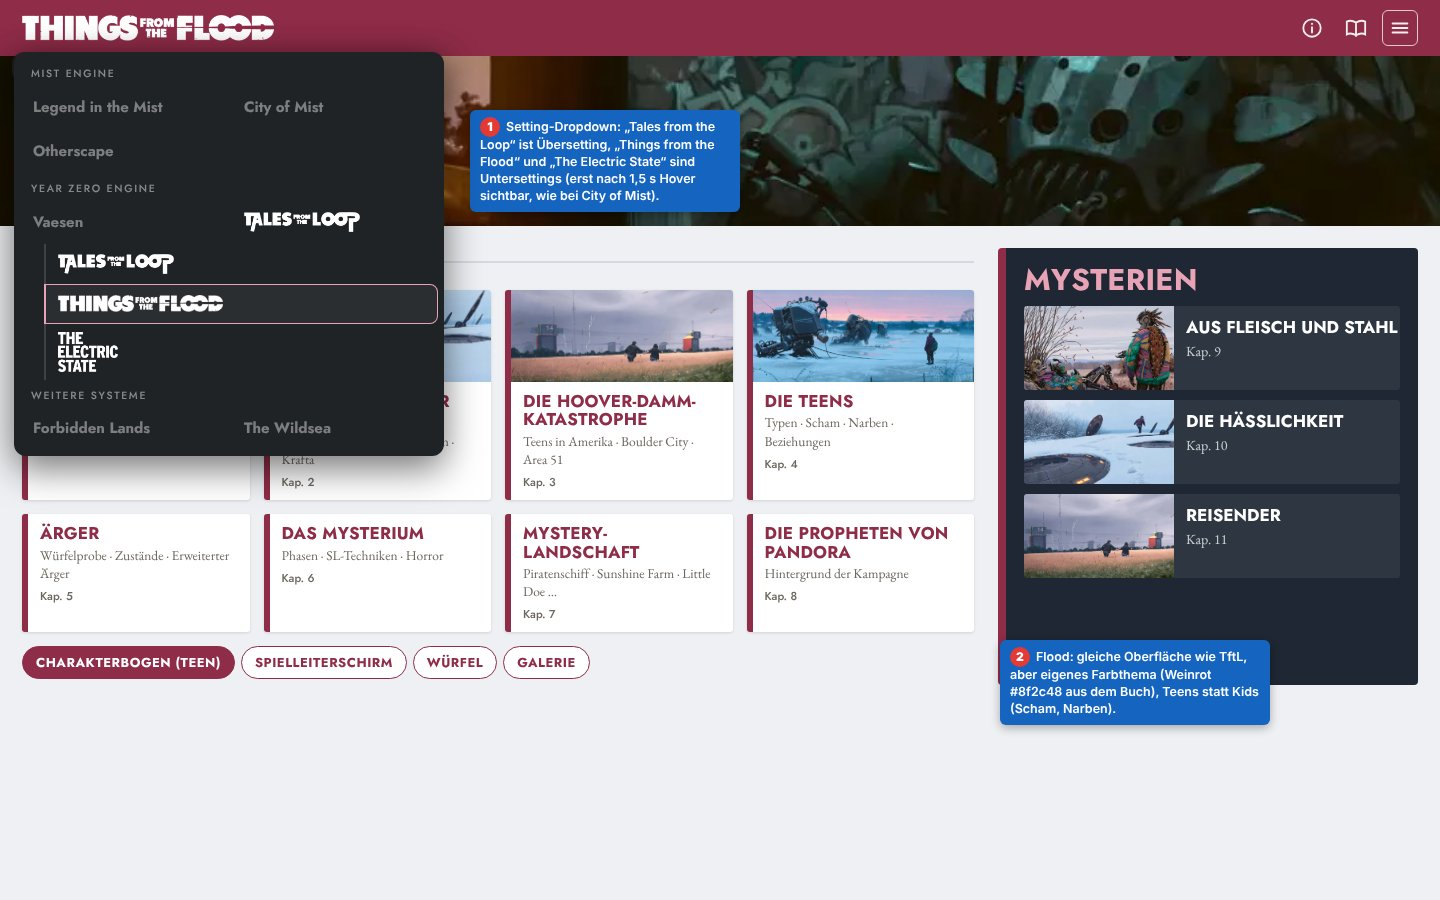
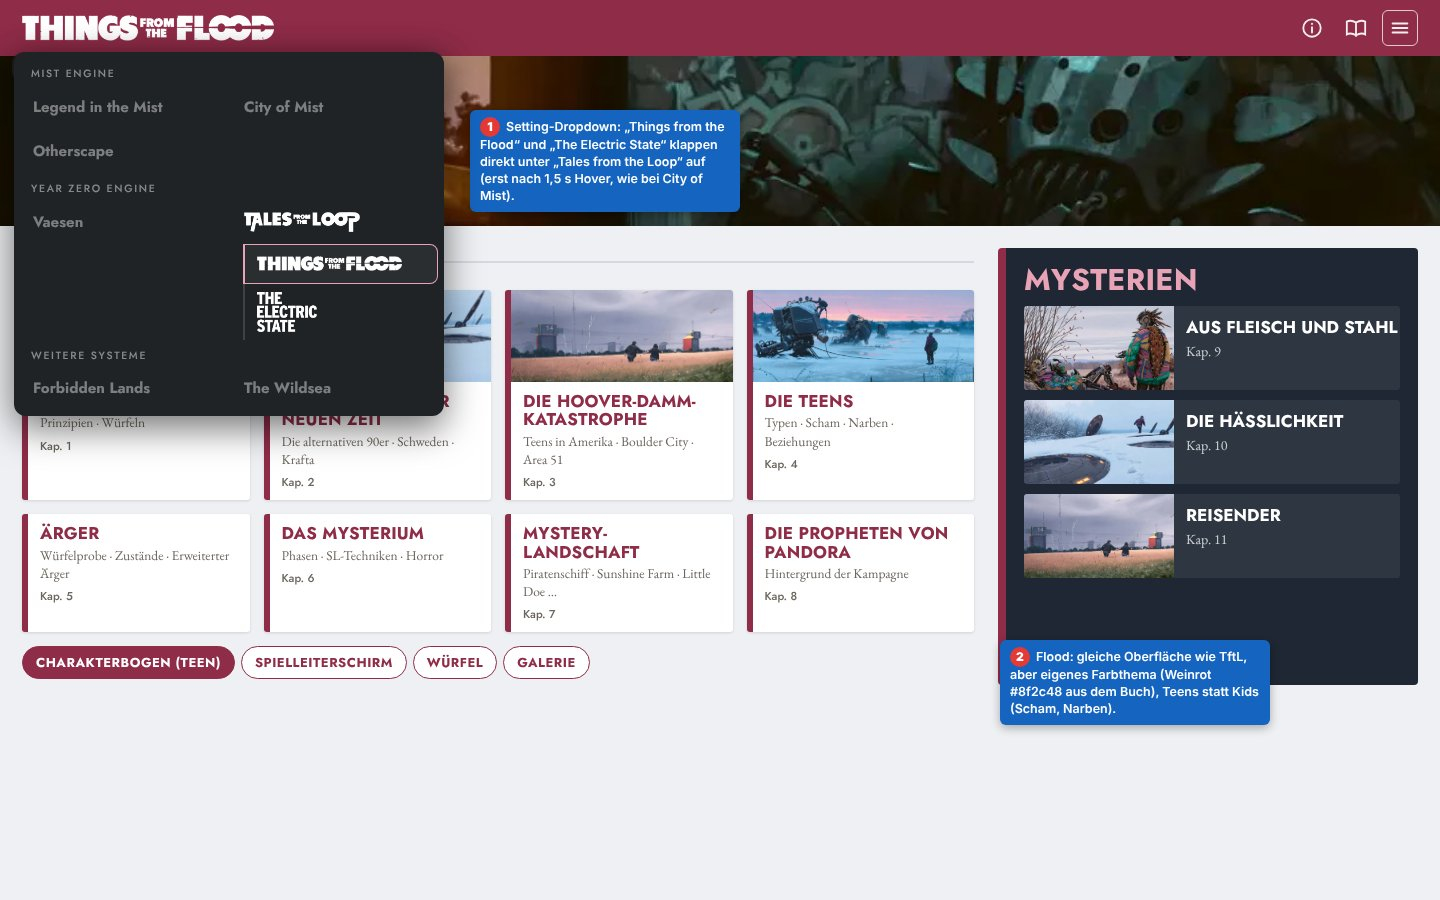
TftL-Entwurf 7: Untersettings klappen direkt unter Tales from the Loop auf

Changed region(s): [[0.0, 0.28, 0.3125, 0.56], [0.3125, 0.1244, 0.5, 0.2489]]

diff --git a/plan/tftl/mockups/src/m7.html b/plan/tftl/mockups/src/m7.html
@@ -30,15 +30,15 @@
 .dd .s2{grid-column:1/-1;margin-left:24px;border-left:2px solid rgba(255,255,255,.14);border-radius:0 8px 8px 0;min-height:40px;font:700 15px var(--sans);text-transform:uppercase;letter-spacing:.03em;display:flex;align-items:center;padding:6px 12px}
 .dd .s2.on{border:1px solid #e9a3b6;border-left:2px solid #e9a3b6;background:rgba(255,255,255,.05)}
 .dd .dim{opacity:.45}
+.dd .s2.c2{grid-column:2;margin-left:12px}
 </style></head><body>
 <!--TOP-->
 <div class="dd">
  <div class="g">Mist Engine</div><div class="gr dim"><div class="b">Legend in the Mist</div><div class="b">City of Mist</div><div class="b">Otherscape</div></div>
  <div class="g">Year Zero Engine</div>
  <div class="gr"><div class="b dim">Vaesen</div><div class="b"><img src="img/tales-from-the-loop.webp"></div>
-  <div class="s2"><img src="img/tales-from-the-loop.webp" style="height:20px;filter:brightness(0) invert(1)"></div>
-  <div class="s2 on"><img src="img/things-from-the-flood.webp" style="height:17px;filter:brightness(0) invert(1)"></div>
-  <div class="s2" style="min-height:56px"><img src="img/electric-state.webp" style="height:40px"></div></div>
+  <div class="s2 c2 on"><img src="img/things-from-the-flood.webp" style="height:15px;filter:brightness(0) invert(1)"></div>
+  <div class="s2 c2" style="min-height:56px"><img src="img/electric-state.webp" style="height:40px"></div></div>
  <div class="g">Weitere Systeme</div><div class="gr dim"><div class="b">Forbidden Lands</div><div class="b">The Wildsea</div></div>
 </div>
 <div class="hero"></div>
@@ -64,6 +64,6 @@
   <div class="mm"><div class="im" style="background-image:url(img/f-traveler.webp)"></div><div><b>Reisender</b><span>Kap. 11</span></div></div>
  </div>
 </div>
-<div class="ann" style="left:470px;top:110px"><b>1</b>Setting-Dropdown: „Tales from the Loop“ ist Übersetting, „Things from the Flood“ und „The Electric State“ sind Untersettings (erst nach 1,5 s Hover sichtbar, wie bei City of Mist).</div>
+<div class="ann" style="left:470px;top:110px"><b>1</b>Setting-Dropdown: „Things from the Flood“ und „The Electric State“ klappen direkt unter „Tales from the Loop“ auf (erst nach 1,5 s Hover, wie bei City of Mist).</div>
 <div class="ann" style="left:1000px;top:640px"><b>2</b>Flood: gleiche Oberfläche wie TftL, aber eigenes Farbthema (Weinrot #8f2c48 aus dem Buch), Teens statt Kids (Scham, Narben).</div>
 </body></html>

diff --git a/plan/TFTL_PLAN.md b/plan/TFTL_PLAN.md
@@ -148,7 +148,7 @@ Tab-Leiste: **Welt · Loops · Kids · Ärger · Mysterium · Mystery-Landschaft
 
 ## 5. Untersettings: Things from the Flood und The Electric State
 
-- **Setting-Dropdown** (`toolmenu.js`, Gruppe „Year Zero Engine“): „Tales from the Loop“ wird Übersetting mit Untermenü (`sub2`, erst nach 1,5 s Hover bzw. langem Druck sichtbar, Animation) – Einträge **Tales from the Loop · Things from the Flood · The Electric State** (Entwurf 7). Logos statt Schrift, sobald vorhanden.
+- **Setting-Dropdown** (`toolmenu.js`, Gruppe „Year Zero Engine“): „Tales from the Loop“ wird Übersetting (Klick = TftL) mit Untermenü (`sub2`, erst nach 1,5 s Hover bzw. langem Druck sichtbar, Animation) – Einträge **Things from the Flood · The Electric State**, als Logos (Entwurf 7). **Die Untereinträge klappen direkt unter dem TftL-Eintrag in dessen Spalte auf** (rechte Spalte, eingerückt mit Linie links) – nicht über die volle Breite unter Vaesen. In `toolmenu.js` dafür für die TftL-Kinder `grid-column` = Spalte des Elterneintrags setzen statt `1/-1` (Vaesen-Untereinträge unverändert lassen).
 - **Things from the Flood** (`tftl/#flood/…` oder eigener Ordner `flood/` – beim Bau entscheiden, Daten in `tftl/js/data/flood/`): **gleiche Oberfläche** wie TftL, eigenes Farbthema aus dem Buch: Weinrot `#8f2c48` (Überschriften/Band), Blaugrau-Fläche, dunkle Blöcke. Teens statt Kids (Bogen zusätzlich mit Scham und Narben; Fertigkeiten-Liste prüfen). Vorbereitung: Leben nach der Flut, Der Loop in einer neuen Zeit (Schweden 90er, Krafta), Die Hoover-Damm-Katastrophe (US), Die Teens, Ärger, Das Mysterium (inkl. SL-Techniken, Horror), Mystery-Landschaft (Piratenschiff der Radiopiraten, Sunshine Farm, Little Doe Trailerpark, Wissenschaft der Liebe, Serbischer Schachclub), Die Propheten von Pandora. Mysterien: Aus Fleisch und Stahl · Die Hässlichkeit · Reisender (als Kampagne „Die Propheten von Pandora“).
 - **The Electric State** – anderes Spiel (Reise statt Mysterien). Eigene Tab-Leiste: **Vorbereitung · Reise · Reisende · Karte**. Reise-Leitstand für „Into the Dust“ (Kap. 7: Ziel & Route, persönliche Ziele & Bedrohungen, Begegnungen, drei Halte: Der Engel in der Maschine, Mord am Straßenrand, Drohnenschiff-Friedhof) mit Routenleiste über die Karte von Pacifica (Querseite S. 2–3). Nachschlagen: Pacifica, Reisende & Archetypen, Kampf & Neuronik, Die Reise, Bedrohungen. Farbthema am PDF ablesen (Graublau/Teal). Der Solo-Teil „The Lone Traveler“ (Kap. 8) **weglassen** (Solo-Regeln raus). **Vor dem Bau eigene Entwürfe zeigen.**
 - „The Electric State – Alpha, zweite Fassung“ (`tftl_esa` in `sys.js`) ist nicht hochgeladen → Eintrag bleibt nur im Buch-Menü.
@@ -203,3 +203,4 @@ Klick auf „Charakterbogen“ öffnet eine interaktive, ausfüllbare Ansicht, s
 - **The Electric State bleibt Untersetting** von Tales from the Loop (neben Things from the Flood).
 - **Snow Day** steht in der Kampagne „Die vier Jahreszeiten“ als **Winter (Alternative)** zur „Kreidezeit“.
 - Logos geliefert (s. Abschnitt 1).
+- Dropdown: Flood und Electric State stehen aufgeklappt direkt unter „Tales from the Loop“.
